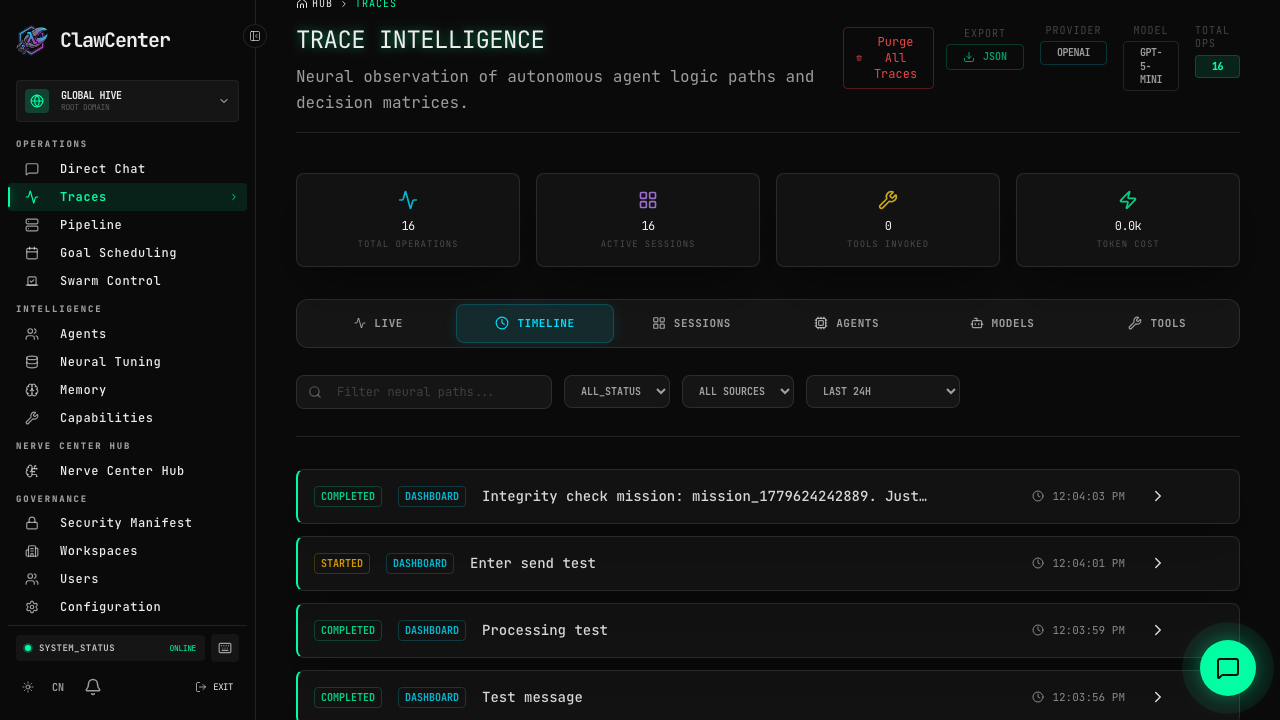
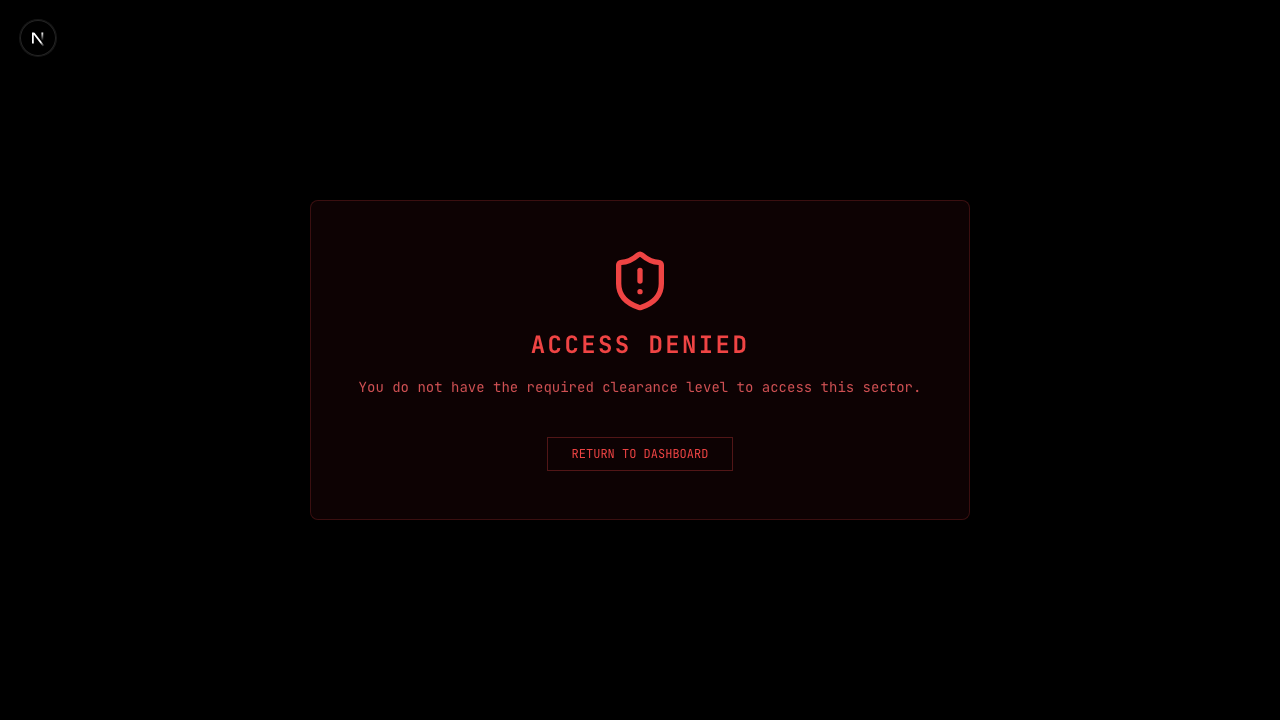
chore: clean extension translation fallbacks and integrate core tests into pre-deploy gate

diff --git a/e2e/mission-dashboard.spec.ts b/e2e/mission-dashboard.spec.ts
@@ -1,66 +1,82 @@
 import path from 'path';
 import { test, expect } from 'playwright/test';
 
-test.describe('Mission Dashboard', () => {
+test.describe('Mission Dashboard & Sidebar Interactions', () => {
   test.use({ storageState: path.join(__dirname, '.auth/user.json') });
 
-  test('renders mission dashboard landing page', async ({ page }) => {
+  test.beforeEach(async ({ page }) => {
     await page.goto('/');
     await page.waitForLoadState('networkidle');
-
-    // Check for the key UI sections using role-based selectors (more reliable than text)
-    // Recent Missions section
-    await expect(page.getByRole('heading', { name: /Recent|Active|Missions/i }).first())
-      .toBeVisible({ timeout: 5000 })
-      .catch(() => {
-        // Fallback: just verify any content is on the page
-        return expect(page.locator('main, [role="main"]')).toBeTruthy();
-      });
   });
 
-  test('displays system stability status', async ({ page }) => {
-    await page.goto('/');
-    await page.waitForLoadState('networkidle');
-
-    // Just verify page loaded successfully
-    await expect(page).toHaveTitle(/Hub|神经/i);
+  test('renders mission dashboard landing page and HUD', async ({ page }) => {
+    // Check for the key UI sections using role-based selectors
+    await expect(page.locator('main, [role="main"]')).toBeVisible({ timeout: 10000 });
   });
 
-  test('quick actions are available', async ({ page }) => {
-    await page.goto('/');
-    await page.waitForLoadState('networkidle');
-
-    // Look for buttons that link to Agents and Security pages (more reliable than text keys)
-    await expect(page.getByRole('link', { name: /agents|sync/i }).first())
-      .toBeVisible({ timeout: 5000 })
-      .catch(() => {
-        return expect(
-          page.locator('a[href*="/agents"], a[href*="/security"]').first()
-        ).toBeTruthy();
-      });
+  test('displays system stability status in footer status indicator', async ({ page }) => {
+    // Look for system status indicator text in the sidebar footer
+    const statusText = page.locator('text=/SYSTEM STATUS|系统状态/i');
+    await expect(statusText).toBeVisible({ timeout: 5000 });
   });
 
-  test('can navigate to Intelligence Sector from Dashboard', async ({ page }) => {
-    await page.goto('/');
-    await page.waitForLoadState('networkidle');
-    // Link to /chat should exist
-    const chatLink = page.getByRole('link', { name: /intelligence|chat|conversation/i }).first();
-    if (await chatLink.count()) {
-      await chatLink.click();
-      await expect(page).toHaveURL(/\/chat/);
+  test('quick actions are available and clickable', async ({ page }) => {
+    // Look for operator quick action section if visible
+    const quickActions = page.locator('text=/QUICK ACTIONS|快捷操作/i');
+    if (await quickActions.count()) {
+      await expect(quickActions).toBeVisible();
     }
   });
 
+  test('can navigate to Intelligence Sector from Dashboard', async ({ page }) => {
+    // Link to /chat should exist and be clickable
+    const chatLink = page.locator('a[href*="/chat"]').first();
+    await expect(chatLink).toBeVisible();
+    await chatLink.click();
+    await expect(page).toHaveURL(/\/chat/);
+  });
+
   test('can navigate to Nerve Center from Dashboard', async ({ page }) => {
-    await page.goto('/');
-    await page.waitForLoadState('networkidle');
-    // Link to /observability should exist
-    const observabilityLink = page
-      .getByRole('link', { name: /nerve|observability|inspect/i })
+    // Link to /observability should exist and be clickable
+    const observabilityLink = page.locator('a[href*="/observability"]').first();
+    await expect(observabilityLink).toBeVisible();
+    await observabilityLink.click();
+    await expect(page).toHaveURL(/\/observability/);
+  });
+
+  test('sidebar collapsible states work', async ({ page }) => {
+    // Find the fold/unfold toggle button
+    const foldButton = page
+      .locator('aside button[title*="Fold" i], aside button[title*="折叠" i]')
       .first();
-    if (await observabilityLink.count()) {
-      await observabilityLink.click();
-      await expect(page).toHaveURL(/\/observability/);
+    if (await foldButton.count()) {
+      await foldButton.click();
+      // Verify aside is collapsed
+      const collapsedAside = page.locator('aside.lg\\:w-16');
+      await expect(collapsedAside).toBeVisible();
+
+      // Click to unfold again
+      const unfoldButton = page
+        .locator('aside button[title*="Unfold" i], aside button[title*="展开" i]')
+        .first();
+      await unfoldButton.click();
+      const expandedAside = page.locator('aside.lg\\:w-64');
+      await expect(expandedAside).toBeVisible();
+    }
+  });
+
+  test('theme toggler changes local preferences', async ({ page }) => {
+    // Locate the theme toggler button by finding the button containing the sun or moon icon
+    const themeBtn = page
+      .locator('aside button:has(svg.lucide-sun), aside button:has(svg.lucide-moon)')
+      .first();
+    if (await themeBtn.count()) {
+      const initialTheme = await page.evaluate(() => document.documentElement.className);
+      await themeBtn.click();
+      await page.waitForTimeout(500); // Wait for class state transition
+      const toggledTheme = await page.evaluate(() => document.documentElement.className);
+      // Verify the theme class changed (e.g. from dark to light)
+      expect(toggledTheme).not.toBe(initialTheme);
     }
   });
 });